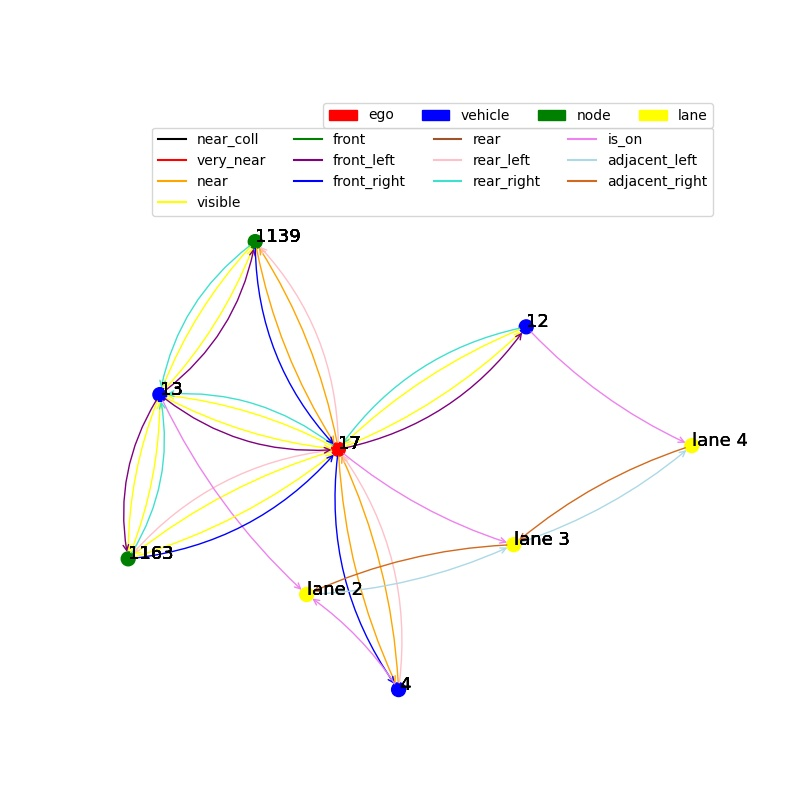
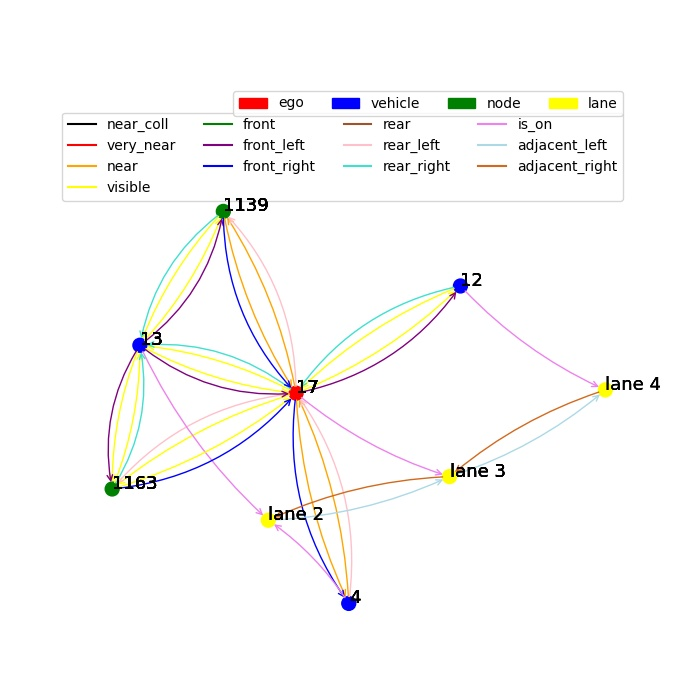
add Annotator argparse

diff --git a/Annotator/NGSIM_Data_Annotator_v2.py b/Annotator/NGSIM_Data_Annotator_v2.py
@@ -1,3 +1,7 @@
+import sys
+sys.path.append("../")
+from scene_graph_visualization import SceneGraph
+import argparse
 from DBtools.init_db import init_DB
 import DBtools.utils as utils
 import math
@@ -74,6 +78,7 @@ def BahaviorRecognition(cursor, vehicle_id, table):
     BehaviorTimeRecord = list()
     BehaviorChange = list()
     TimeInterval = 100
+
     r = RelationExtractor(cursor, vehicle_id, table)
     for NowTime in range(min_timestamp, max_timestamp, TimeInterval):
         # r.get_vehicle_relation(NowTime)
@@ -151,16 +156,16 @@ def BehaviorStatisticAnnotate(cursor, ChunkSize, table):
 
 
 if __name__ == '__main__':
-    conn, cursor = init_DB("NGSIM_I_80_Scenario_DB")
-    ChunkSize = 10
-    all_arr = np.zeros((4, 11)).astype(np.int)
-    for i in range(1, 4):
-        print("table: ", i)
-        table = "_" + str(i)
-        CreateScenarioBehaviorIndexTable(cursor, table)
-        arr = BehaviorStatisticAnnotate(cursor, ChunkSize, table)
-        all_arr = all_arr + arr
-        print(all_arr)
+    # "NGSIM_I_80_Scenario_DB"
+    parser = argparse.ArgumentParser()
+    parser.add_argument('--DB', type=str, default=None)
+    parser.add_argument('--Table', type=str, default=None)
+    parser.add_argument('--Chunksize', type=int, default=10)
+    args = parser.parse_args()
+    conn, cursor = init_DB(args.DB)
+    table = "_" + args.Table
+    CreateScenarioBehaviorIndexTable(cursor, table)
+    arr = BehaviorStatisticAnnotate(cursor, args.Chunksize, table)
 
     cursor.close()
     conn.commit()

diff --git a/Annotator/Interaction_Merge_Annotator.py b/Annotator/Interaction_Merge_Annotator.py
@@ -1,3 +1,6 @@
+import sys
+sys.path.append("../")
+import argparse
 from DBtools.init_db import init_DB
 import DBtools.utils as utils
 import math
@@ -6,7 +9,6 @@ from relation_extractor import RelationExtractor
 from InsertDataBase.CreateTables import CreateScenarioBehaviorIndexTable
 import numpy as np
 import json
-
 
 def TrajectoryChunk(cursor, ChunkSize, vehicle_id, table):
     min_timestamp, max_timestamp = utils.SearchVehicleTimeRangeFromDB(cursor, vehicle_id, table)
@@ -124,16 +126,16 @@ def BehaviorStatisticAnnotate(cursor, ChunkSize, table):
 
 
 if __name__ == '__main__':
-    conn, cursor = init_DB("Interaction_MergingZS_Scenario_DB")
-    ChunkSize = 10  # 10s
-    all_arr = np.zeros((5,11)).astype(np.int)
-    for i in range(1):
-        print("table: ", i)
-        table = "_" + str(i)
-        CreateScenarioBehaviorIndexTable(cursor, table)
-        arr = BehaviorStatisticAnnotate(cursor, ChunkSize, table)
-        all_arr = all_arr + arr
-        print(all_arr)
+    # "Interaction_MergingZS_Scenario_DB"
+    parser = argparse.ArgumentParser()
+    parser.add_argument('--DB', type=str, default=None)
+    parser.add_argument('--Table', type=str, default=None)
+    parser.add_argument('--Chunksize', type=int, default=10)
+    args = parser.parse_args()
+    conn, cursor = init_DB(args.DB)
+    table = "_" + args.Table
+    CreateScenarioBehaviorIndexTable(cursor, table)
+    arr = BehaviorStatisticAnnotate(cursor, args.Chunksize, table)
 
     cursor.close()
     conn.commit()

diff --git a/Annotator/Interaction_Merge_Annotator_v2.py b/Annotator/Interaction_Merge_Annotator_v2.py
@@ -1,3 +1,6 @@
+import sys
+sys.path.append("../")
+import argparse
 from DBtools.init_db import init_DB
 import DBtools.utils as utils
 import math
@@ -157,16 +160,16 @@ def BehaviorStatisticAnnotate(cursor, ChunkSize, table):
 
 
 if __name__ == '__main__':
-    conn, cursor = init_DB("Interaction_MergingZS_Scenario_DB")
-    ChunkSize = 10
-    all_arr = np.zeros((5, 11)).astype(np.int)
-    for i in range(0, 11):
-        print("table: ", i)
-        table = "_" + str(i)
-        CreateScenarioBehaviorIndexTable(cursor, table)
-        arr = BehaviorStatisticAnnotate(cursor, ChunkSize, table)
-        all_arr = all_arr + arr
-        print(all_arr)
+    # "Interaction_MergingZS_Scenario_DB"
+    parser = argparse.ArgumentParser()
+    parser.add_argument('--DB', type=str, default=None)
+    parser.add_argument('--Table', type=str, default=None)
+    parser.add_argument('--Chunksize', type=int, default=10)
+    args = parser.parse_args()
+    conn, cursor = init_DB(args.DB)
+    table = "_" + args.Table
+    CreateScenarioBehaviorIndexTable(cursor, table)
+    arr = BehaviorStatisticAnnotate(cursor, args.Chunksize, table)
 
     cursor.close()
     conn.commit()

diff --git a/Annotator/NGSIM_Data_Annotator.py b/Annotator/NGSIM_Data_Annotator.py
@@ -1,3 +1,6 @@
+import sys
+sys.path.append("../")
+import argparse
 from DBtools.init_db import init_DB
 import DBtools.utils as utils
 import math
@@ -102,16 +105,16 @@ def BehaviorStatisticAnnotate(cursor, ChunkSize, table):
 
 
 if __name__ == '__main__':
-    conn, cursor = init_DB("NGSIM_I_80_Scenario_DB")
-    ChunkSize = 10
-    all_arr = np.zeros((4, 11)).astype(np.int)
-    for i in range(1, 4):
-        print("table: ", i)
-        table = "_" + str(i)
-        CreateScenarioBehaviorIndexTable(cursor, table)
-        arr = BehaviorStatisticAnnotate(cursor, ChunkSize, table)
-        all_arr = all_arr + arr
-        print(all_arr)
+    # "NGSIM_I_80_Scenario_DB"
+    parser = argparse.ArgumentParser()
+    parser.add_argument('--DB', type=str, default=None)
+    parser.add_argument('--Table', type=str, default=None)
+    parser.add_argument('--Chunksize', type=int, default=10)
+    args = parser.parse_args()
+    conn, cursor = init_DB(args.DB)
+    table = "_" + args.Table
+    CreateScenarioBehaviorIndexTable(cursor, table)
+    arr = BehaviorStatisticAnnotate(cursor, args.Chunksize, table)
 
     cursor.close()
     conn.commit()

diff --git a/Annotator/HighD_Data_Annotator.py b/Annotator/HighD_Data_Annotator.py
@@ -1,3 +1,6 @@
+import sys
+sys.path.append("../")
+import argparse
 from DBtools.init_db import init_DB
 import DBtools.utils as utils
 import math
@@ -115,16 +118,16 @@ def BehaviorStatisticAnnotate(cursor, ChunkSize, table):
 
 
 if __name__ == '__main__':
-    conn, cursor = init_DB("HighD_I_Scenario_DB")
-    ChunkSize = 6
-    all_arr = np.zeros((3, 11)).astype(np.int)
-    for i in range(1, 4):
-        print("table: ", i)
-        table = "_" + str(i)
-        CreateScenarioBehaviorIndexTable(cursor, table)
-        arr = BehaviorStatisticAnnotate(cursor, ChunkSize, table)
-        all_arr = all_arr + arr
-        print(all_arr)
+    # "HighD_I_Scenario_DB"
+    parser = argparse.ArgumentParser()
+    parser.add_argument('--DB', type=str, default=None)
+    parser.add_argument('--Table', type=str, default=None)
+    parser.add_argument('--Chunksize', type=int, default=6)
+    args = parser.parse_args()
+    conn, cursor = init_DB(args.DB)
+    table = "_" + args.Table
+    CreateScenarioBehaviorIndexTable(cursor, table)
+    arr = BehaviorStatisticAnnotate(cursor, args.Chunksize, table)
 
     cursor.close()
     conn.commit()

diff --git a/Annotator/HighD_Data_Annotator_v2.py b/Annotator/HighD_Data_Annotator_v2.py
@@ -1,3 +1,6 @@
+import sys
+sys.path.append("../")
+import argparse
 from DBtools.init_db import init_DB
 import DBtools.utils as utils
 import math
@@ -144,16 +147,16 @@ def BehaviorStatisticAnnotate(cursor, ChunkSize, table):
 
 
 if __name__ == '__main__':
-    conn, cursor = init_DB("HighD_I_Scenario_DB")
-    ChunkSize = 6
-    all_arr = np.zeros((3, 11)).astype(np.int)
-    for i in range(1, 4):
-        print("table: ", i)
-        table = "_" + str(i)
-        CreateScenarioBehaviorIndexTable(cursor, table)
-        arr = BehaviorStatisticAnnotate(cursor, ChunkSize, table)
-        all_arr = all_arr + arr
-        print(all_arr)
+    # "HighD_I_Scenario_DB"
+    parser = argparse.ArgumentParser()
+    parser.add_argument('--DB', type=str, default=None)
+    parser.add_argument('--Table', type=str, default=None)
+    parser.add_argument('--Chunksize', type=int, default=6)
+    args = parser.parse_args()
+    conn, cursor = init_DB(args.DB)
+    table = "_" + args.Table
+    CreateScenarioBehaviorIndexTable(cursor, table)
+    arr = BehaviorStatisticAnnotate(cursor, args.Chunksize, table)
 
     cursor.close()
     conn.commit()

diff --git a/Annotator/Interaction_Intersection_Annotator.py b/Annotator/Interaction_Intersection_Annotator.py
@@ -1,3 +1,6 @@
+import sys
+sys.path.append("../")
+import argparse
 from DBtools.init_db import init_DB
 import DBtools.utils as utils
 import math
@@ -89,16 +92,14 @@ def BehaviorStatisticAnnotate(cursor, ChunkSize, table):
 
 
 if __name__ == '__main__':
-    conn, cursor = init_DB("Interaction_Intersection_EP0_Scenario_DB")
-    ChunkSize = 8
-    all_arr = np.zeros((3, 11)).astype(np.int)
-    for i in range(8):
-        print("table: ", i)
-        table = "_" + str(i)
-        CreateScenarioBehaviorIndexTable(cursor, table)
-        arr = BehaviorStatisticAnnotate(cursor, ChunkSize, table)
-        all_arr = all_arr + arr
-        print(all_arr)
+    # "Interaction_Intersection_EP0_Scenario_DB"
+    parser = argparse.ArgumentParser()
+    parser.add_argument('--DB', type=str, default=None)
+    parser.add_argument('--Table', type=str, default=None)
+    parser.add_argument('--Chunksize', type=int, default=8)
+    args = parser.parse_args()
+    conn, cursor = init_DB(args.DB)
+    table = "_" + args.Table
 
     cursor.close()
     conn.commit()

diff --git a/scene_graph_visualization.py b/scene_graph_visualization.py
@@ -76,7 +76,7 @@ class SceneGraph:
 
 
     def visualize(self):
-        plt.figure(figsize=(8,8))
+        plt.figure(figsize=(7, 7))
         pos = nx.kamada_kawai_layout(self.g)
         nx.draw_networkx_nodes(self.g, pos, node_size=100, node_color=self.vehicle_fill_color)
         ax = plt.gca()

diff --git a/Annotator/Argoverse_Data_Annotate.py b/Annotator/Argoverse_Data_Annotate.py
@@ -1,3 +1,5 @@
+import sys
+sys.path.append("../")
 from DBtools.init_db import init_DB
 import DBtools.utils as utils
 import math

diff --git a/README.md b/README.md
@@ -99,7 +99,7 @@ adjacent traffic participants.
 
 `cd Annotator`
 
-`python Interaction_Merge_Anotator.py`
+`python Interaction_Merge_Anotator.py --DB Interaction_MergingZS_Scenario_DB --Table 0`
 
 The annotation results will be recorded in Scenario_Behavior_Index Table.
 
@@ -108,7 +108,7 @@ If you find our work is useful in your research, please consider citing:
 ```
 @article{chang2022metascenario,
   title={Metascenario: A framework for driving scenario data description, storage and indexing},
-  author={Chang, Cheng and Cao, Dongpu and Chen, Long and Su, Kui and Su, Kuifeng and Su, Yuelong and Wang, Fei-Yue and Wang, Jue and Wang, Ping and Wei, Junqing and others},
+  author={Chang, Cheng and Cao, Dongpu and Chen, Long and Su, Kui and Su, Kuifeng and Su, Yuelong and Wang, Fei-Yue and Wang, Jue and Wang, Ping and Wei, Junqing and Wu, Gansha and Wu, Xiangbin and Xu, Huile and Zheng, Nanning and Li, Li},
   journal={IEEE Transactions on Intelligent Vehicles},
   volume={8},
   number={2},
